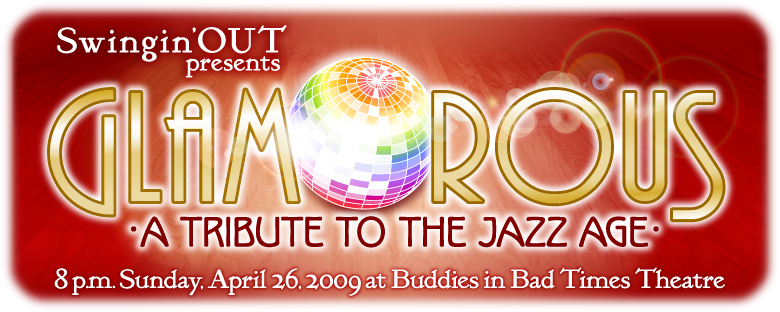
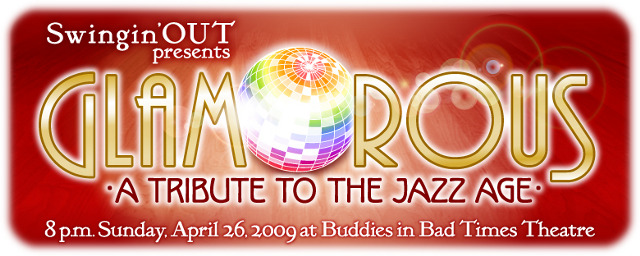
Fix closing strong tag, resize and compress images

diff --git a/glamorous/index.html b/glamorous/index.html
@@ -23,10 +23,9 @@ dd {padding-bottom: 0.51em}
 <body lang="en-CA">
 
 <div class="top">
-<img src="images/logo.jpg" alt="Glamorous: A Tribute to the Jazz Age" width="780" height="276" />
-
+<img src="images/logo.jpg" alt="Glamorous: A Tribute to the Jazz Age" width="640" height="226"/>
 <h2><br>Call for Performers</h2>
-<p><strong>Please forward widely!</strong</p>
+<p><strong>Please forward widely!</strong></p>
 </div>
 
  
